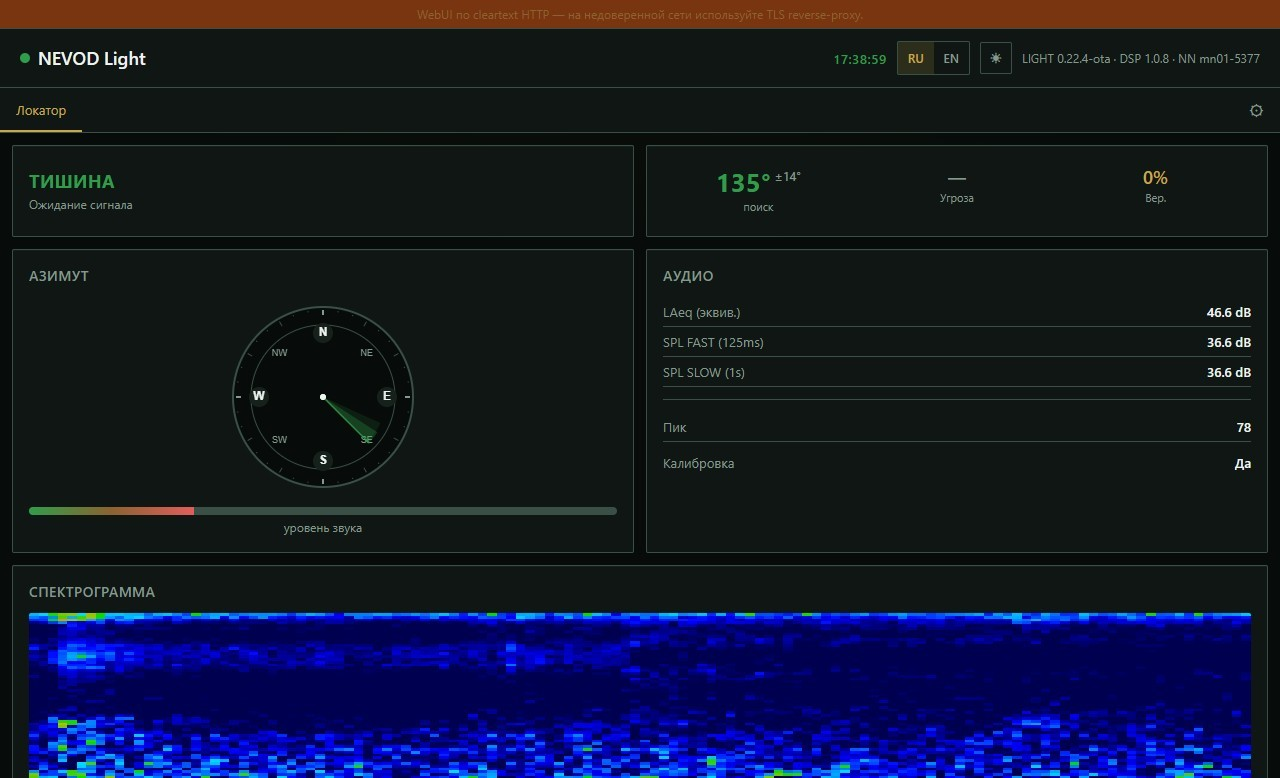
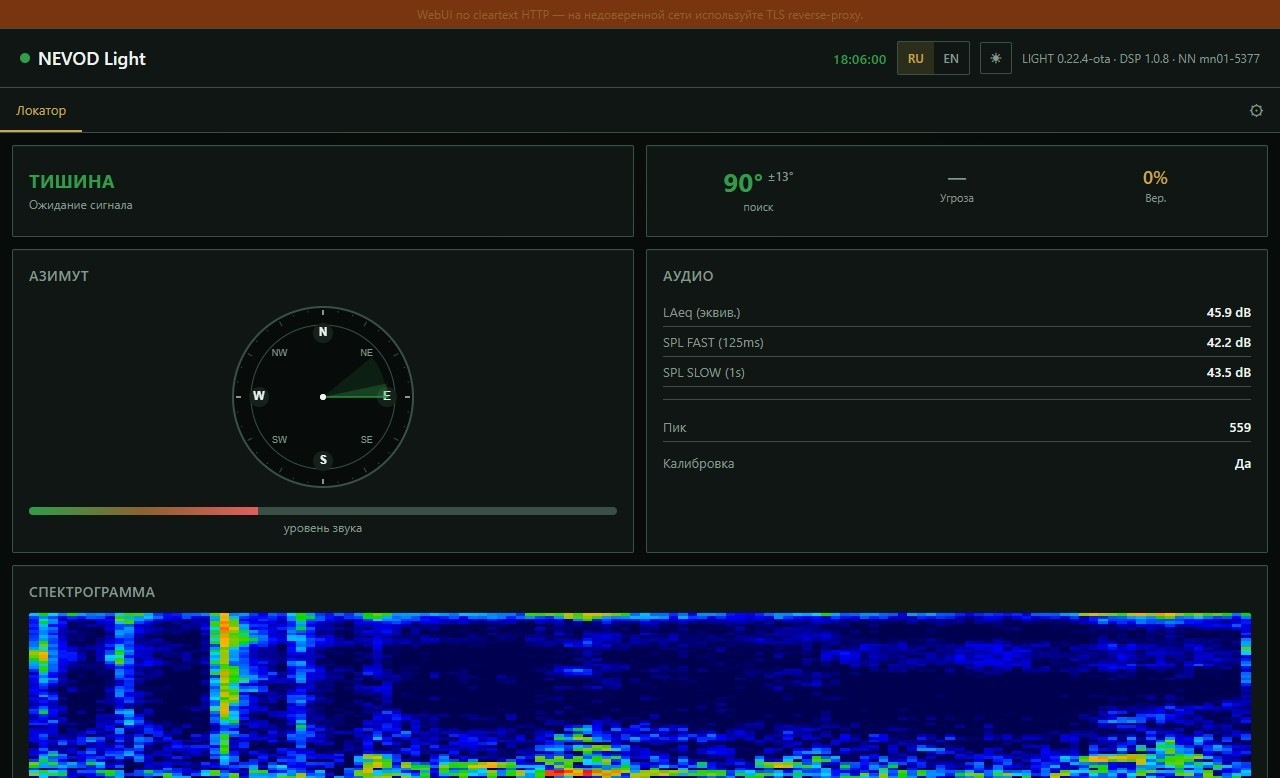
fix(docs): светлый диск компаса на дневном скрине WebUI
Пара заново с платы после перерисовки canvas при смене темы.

diff --git a/docs/index.html b/docs/index.html
@@ -86,8 +86,8 @@
     </header>
 
     <figure class="shot">
-      <img class="shot-dark" src="assets/gui.jpg?v=pair2" alt="" width="1280" height="778" fetchpriority="high" />
-      <img class="shot-light" src="assets/gui-light.jpg?v=pair2" alt="" width="1280" height="778" decoding="async" />
+      <img class="shot-dark" src="assets/gui.jpg?v=pair3" alt="" width="1280" height="778" fetchpriority="high" />
+      <img class="shot-light" src="assets/gui-light.jpg?v=pair3" alt="" width="1280" height="778" decoding="async" />
       <figcaption data-i18n="shot.cap">В браузере видно, откуда звук.</figcaption>
     </figure>
 
